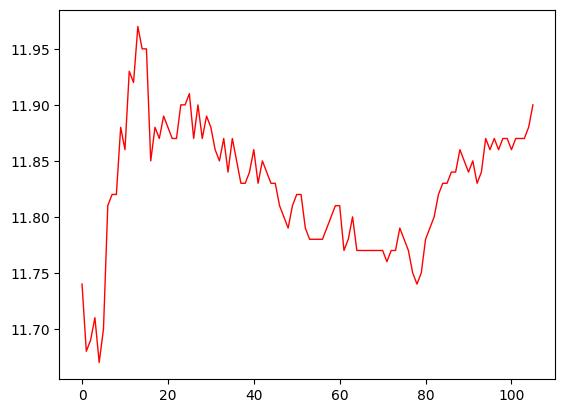
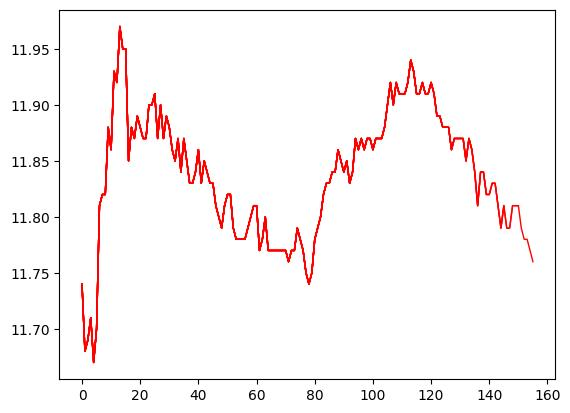
毫秒时间戳

diff --git a/public/shares.py b/public/shares.py
@@ -11,6 +11,7 @@ from datetime import datetime, date
 import efinance as ef
 from chinese_calendar import is_workday
 import matplotlib.pyplot as plt
+import time
 
 from public.send_ding import send_ding
 from public.log import logger, BASE_PATH, os
@@ -26,8 +27,8 @@ def shares():
         logger.info(f"当前时间 {now_time} 休市日!!!")
         return
     start_time = datetime(year, month, day, 9, 15, 0)
-    end_time = datetime(year, month, day, 15, 00, 0)
-    am_time = datetime(year, month, day, 11, 30, 0)
+    end_time = datetime(year, month, day, 15, 05, 0)
+    am_time = datetime(year, month, day, 11, 35, 0)
     pm_time = datetime(year, month, day, 13, 00, 0)
     if now_time < start_time or now_time > end_time or am_time < now_time < pm_time:
         logger.info(f"当前时间 {now_time} 未开盘!!!")
@@ -41,8 +42,10 @@ def shares():
         logger.info(f"当前时间 {now_time} 未获取到股票数据!!!")
         return
     # 绘制图形
+    now_img = int(round(time.time() * 1000))
+    logger.info(f"当前时间戳: {now_img}")
     plt.plot(df["开盘"].values, linewidth=1, color="red")
-    plt.savefig(os.path.join(BASE_PATH, "media", "Chart.jpg"), bbox_inches='tight')
+    plt.savefig(os.path.join(BASE_PATH, "media", f"Chart-{now_img}.jpg"), bbox_inches='tight')
 
     share_name = df["股票名称"].values[0]
     open_price = df["开盘"].values[0]
@@ -77,7 +80,7 @@ def shares():
                     f"> **时间:** <font>{new_time}</font>\n\n"
                     f"> **最新价:** <font color={new_price_color}>{new_price}</font> 元/股\n\n"
                     f"> **状态:** <font>开盘中</font> \n\n"
-                    f"> **折线图:** ![screenshot](http://121.41.54.234/Chart.jpg) @15235514553\n\n"
+                    f"> **折线图:** ![screenshot](http://121.41.54.234/Chart-{now_img}.jpg) @15235514553\n\n"
         },
         "at": {
             "atMobiles": ["15235514553"],
